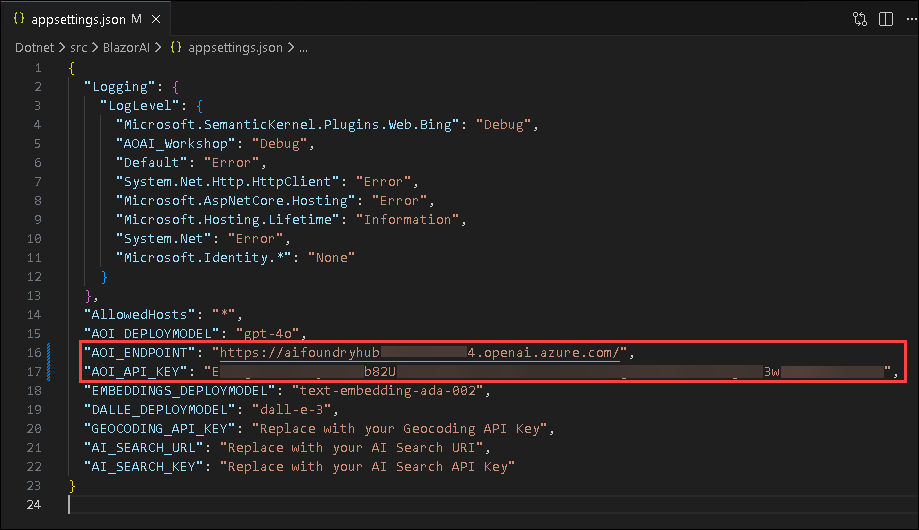
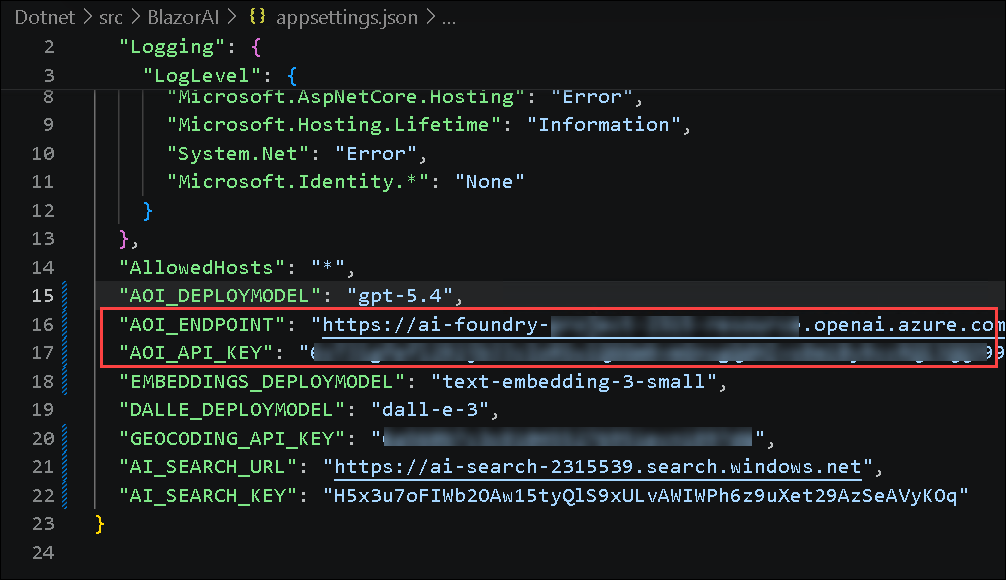
python lab-12 changes

diff --git a/Labs/lab-02.md b/Labs/lab-02.md
@@ -60,6 +60,8 @@ In this task, you will explore different flow types in Microsoft Foundry by sett
 
     ![](./media/new/d6.png)
 
+    >**Note:** Update the AZURE_OPENAI_CHAT_DEPLOYMENT_NAME to **gpt-5.4** and AZURE_OPENAI_EMBED_DEPLOYMENT_NAME to **text-embedding-3-small**.
+
 1. Use **Ctrl+S** to save the file.
 
 </details>
@@ -67,7 +69,7 @@ In this task, you will explore different flow types in Microsoft Foundry by sett
 <details>
 <summary><strong>C Sharp(C#)</strong></summary>
 
-1. In VS Code, navigate to `Dotnet>src>BlazorAI` directory and open **appsettings.json** file.
+1. In VS Code, expand **Dotnet (1)**, **src (2)**, **BlazorAI (3)** directory and open **appsettings.json (4)** file.
 
     ![](./media/sk23.png)
 
@@ -80,6 +82,8 @@ In this task, you will explore different flow types in Microsoft Foundry by sett
 1. Paste **API key** copied earlier in the exercise besides `AOI_API_KEY`.
 
     ![](./media/new/d7.png)
+
+    >**Note:** Update the AOI_ENDPOINT to **gpt-5.4** and EMBEDDINGS_DEPLOPYMODEL to **text-embedding-3-small**.
 
 1. Use **Ctrl+S** to save the file.
 
@@ -153,7 +157,7 @@ In this task, you will explore different flow types in Microsoft Foundry by upda
 1. In case you encounter any indentation error, use the code from the following URL:
 
     ```
-    https://raw.githubusercontent.com/CloudLabsAI-Azure/ai-developer/refs/heads/prod/CodeBase/python/lab-02.py
+    https://raw.githubusercontent.com/CloudLabsAI-Azure/ai-developer/refs/heads/guided-labs/CodeBase/python/lab-02.py
     ```
 
 1. Save the file.
@@ -197,6 +201,8 @@ In this task, you will explore different flow types in Microsoft Foundry by upda
 1. You will receive a response similar to the one shown below:
 
     ![](./media/new/d13.png)
+
+    >**Note:** If no response is generated, stop the current state and rerun the streamlit run app.py command from the terminal and try again.
 
 </details>
 
